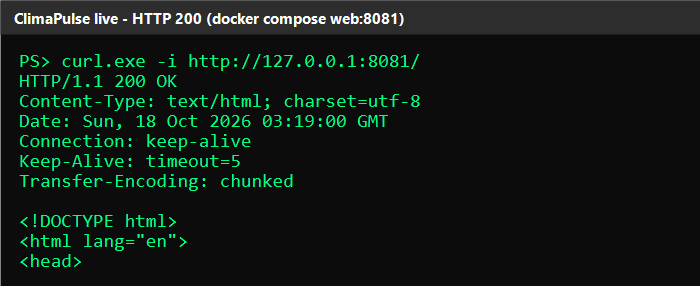
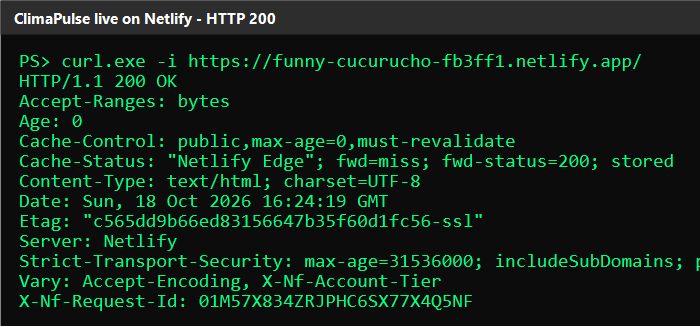
docs: set Netlify live URL (M6)

Changed region(s): [[0.03, 0.1678, 1.0, 0.951], [0.0, 0.028, 1.0, 0.1399]]

diff --git a/README.md b/README.md
@@ -44,14 +44,14 @@ python -m http.server 5500
 
 ## ☁ Live URL
 
-> Set after deployment (M6). GitHub Pages is the default target — see
-> [`docs/deployment.md`](docs/deployment.md).
+> Deployed on **Netlify** (M6). See [`docs/deployment.md`](docs/deployment.md)
+> for the GitHub Pages and container options.
 
 ```text
-https://skit-devops-2026.github.io/Devops_24ESKCS102/
+https://funny-cucurucho-fb3ff1.netlify.app/
 ```
 
-Health check every deployed copy with: `curl -i https://<url>/metrics`
+Health check every deployed copy with: `curl -i https://funny-cucurucho-fb3ff1.netlify.app/metrics`
 
 ---
 
